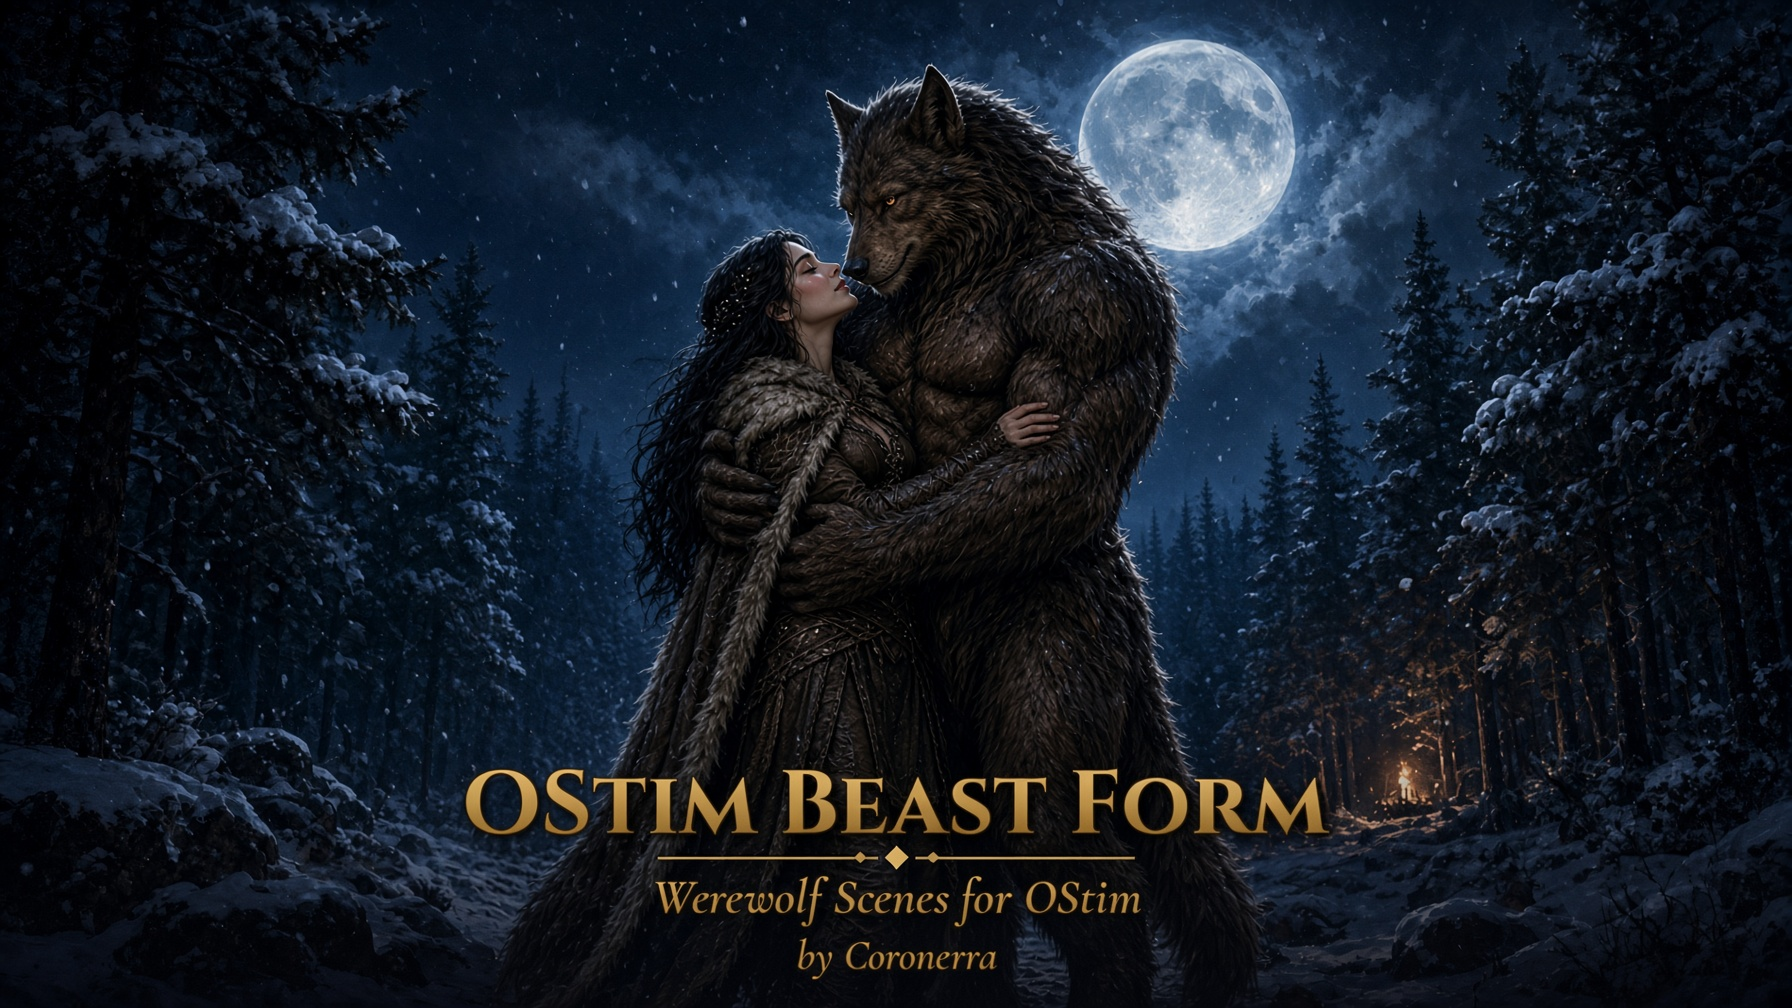
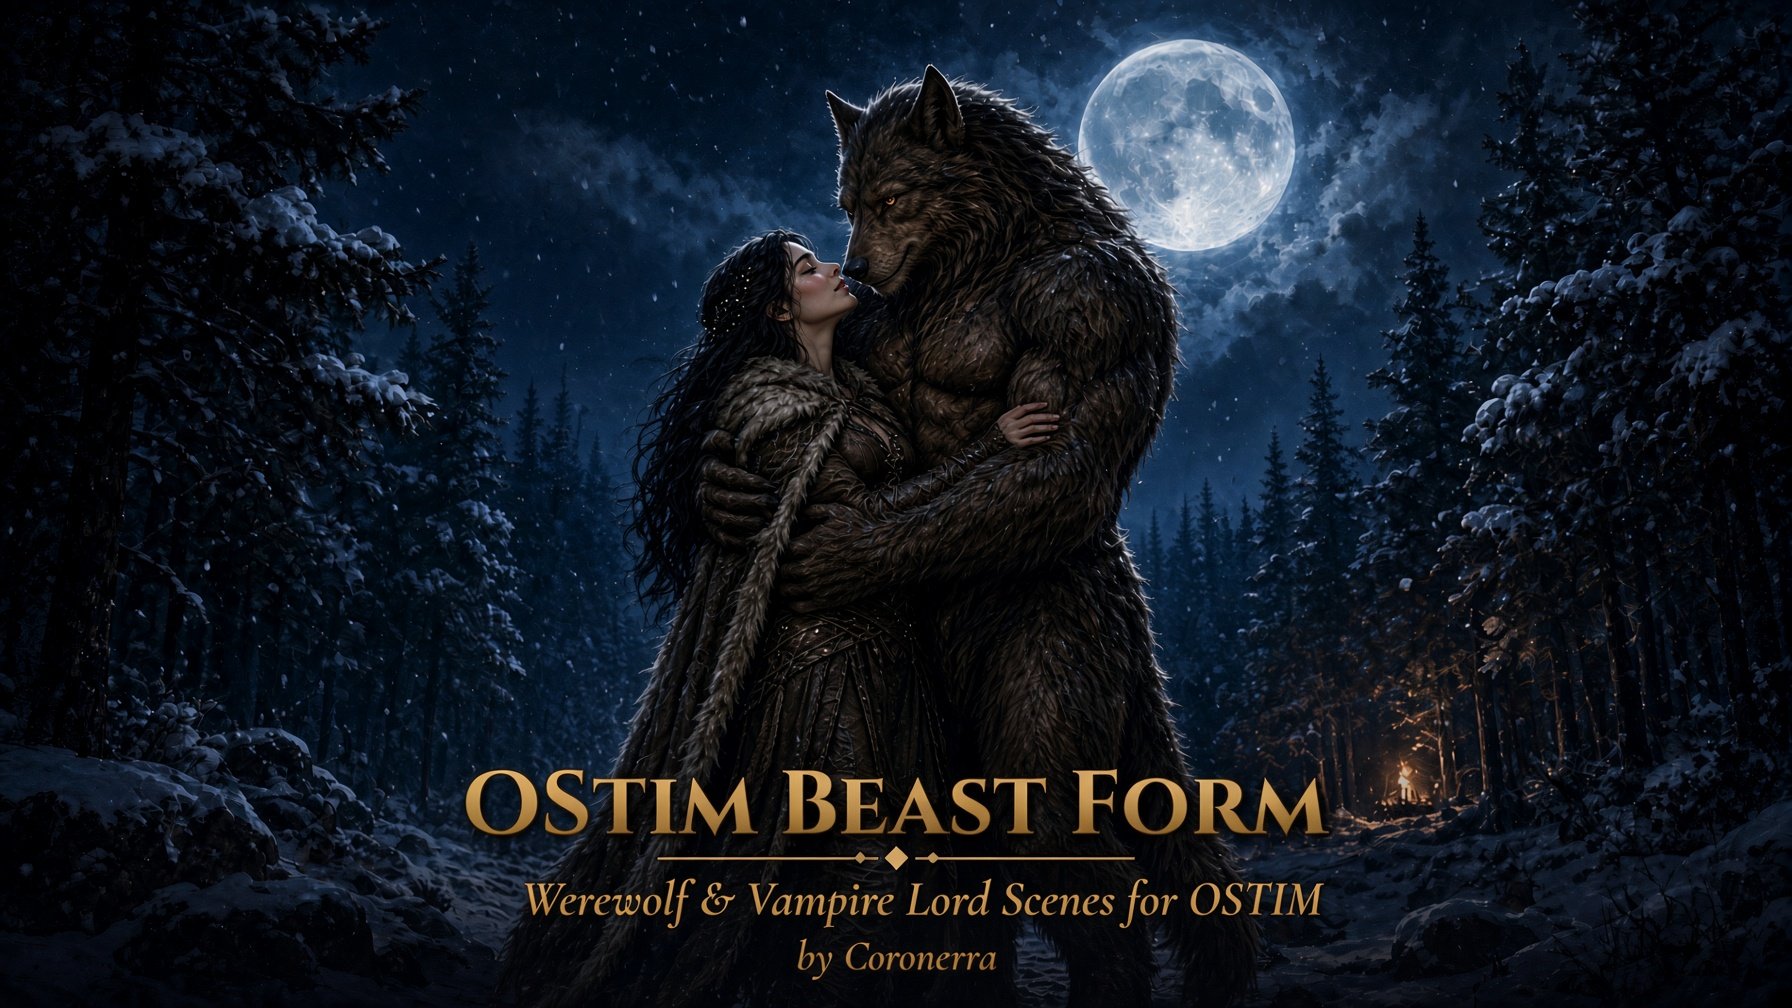
Docs: new cover and notice that Vampire Lord and werebear bodies are not included yet
The framework for Vampire Lord and werebear bodies is already built in and waiting.

diff --git a/README.md b/README.md
@@ -9,6 +9,8 @@
 
 Play as a werewolf, werebear or Vampire Lord in OStim with your mind intact.
 
+> **Note:** Vampire Lord bodies and werebear bodies are not included yet, but the framework for them is already built in and waiting. Scenes, skin-swap and body hooks are ready for when suitable bodies are available.
+
 > **This is the main OStim Beast Form repository again.** Everything for OStim Beast Form is downloaded from here: the mod, its optional patches, the animation patch for Werewolf and Vampire Lord OStim 0.3.1 and Ostrands with Werewolves.
 >
 > The older repositories are **superseded by this one** and are no longer updated: [OStim Beast Form Merged](https://github.com/Coronerra/OStim-Beast-Form-Merged), [OStim Beast Form - TWO Edition](https://github.com/Coronerra/OStim-Beast-Form-TWO), [OStim Beast Form Merged - TWO Patch](https://github.com/Coronerra/OStim-Beast-Form-Merged-TWO-Patch) and [OStim Beast Form TWO Herm Patch](https://github.com/Coronerra/OStim-Beast-Form-TWO-Herm-Patch). (The readme and installer inside the 1.0.1 zip still name the Merged repository as the source; this repository replaces it.)
